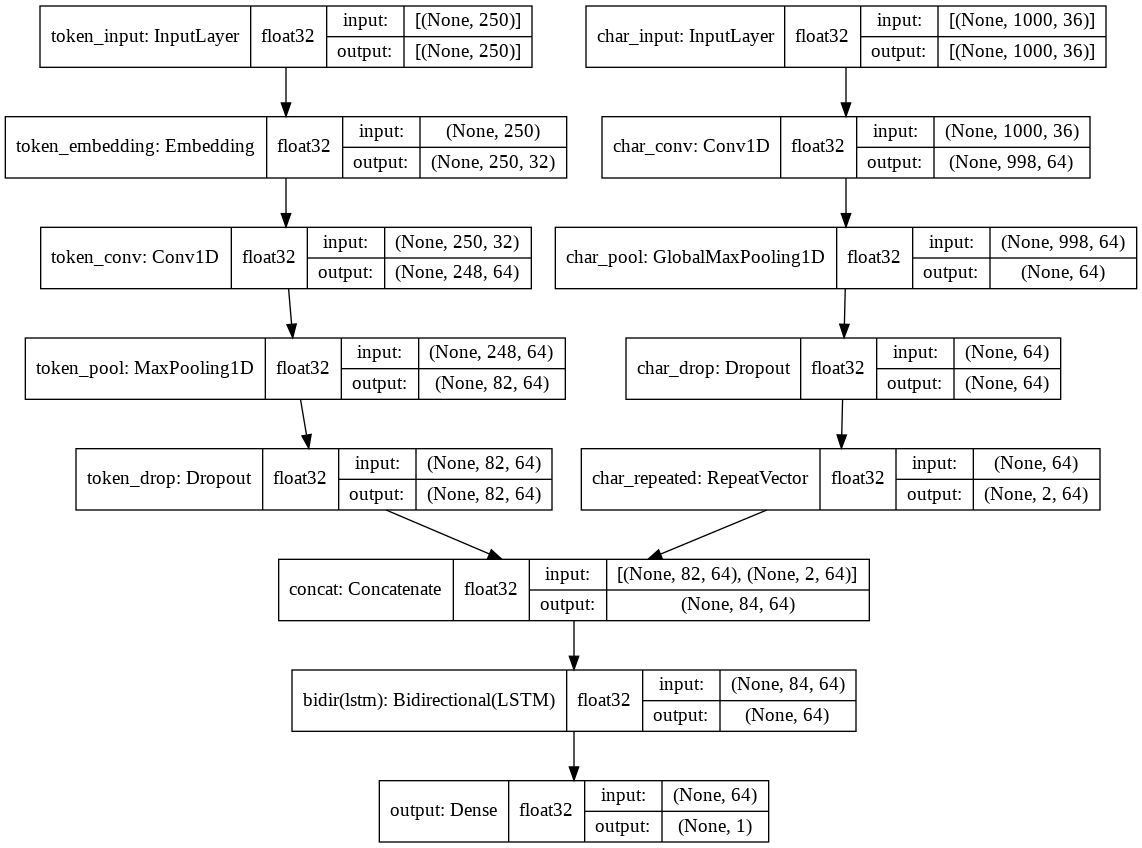
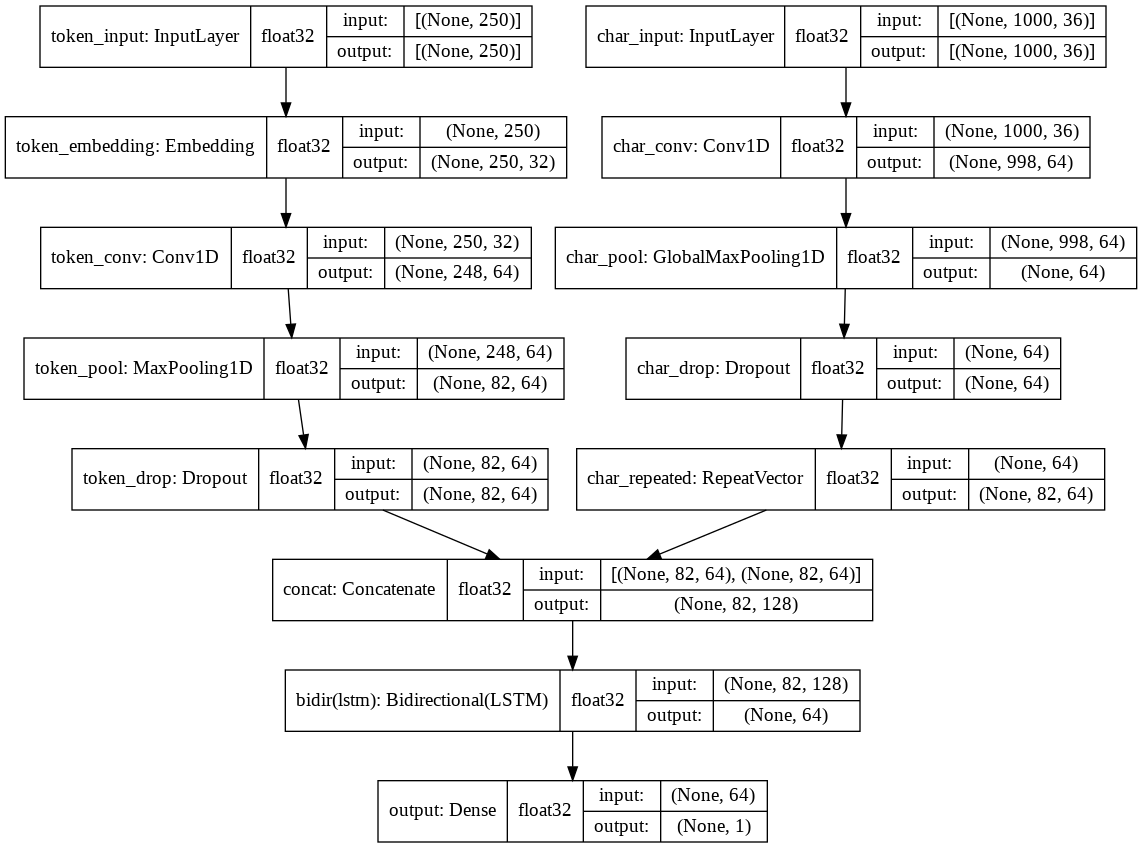
fix logic error in combining token and char models; update results that only shift slightly

diff --git a/docs/_posts/2021-01-29-composite.md b/docs/_posts/2021-01-29-composite.md
@@ -20,7 +20,7 @@ The character part of the model makes a few adjustments to the one in ([^colab11
 ![Composite Model](/fakejobs/assets/images/composite_model-2021-01-29.png)
 
 ### Model performance
-We observe an accuracy score of 98.28%, an F1 score of 82.84%, and an AUC score of 97.67%.
+We observe an accuracy score of 98.43%, an F1 score of 83.85%, and an AUC score of 96.72%.
 
 ### References
 [^colab3]: [LSTM model with a word-embedding layer](https://github.com/r-dube/fakejobs/blob/main/fj_lstm.ipynb)
